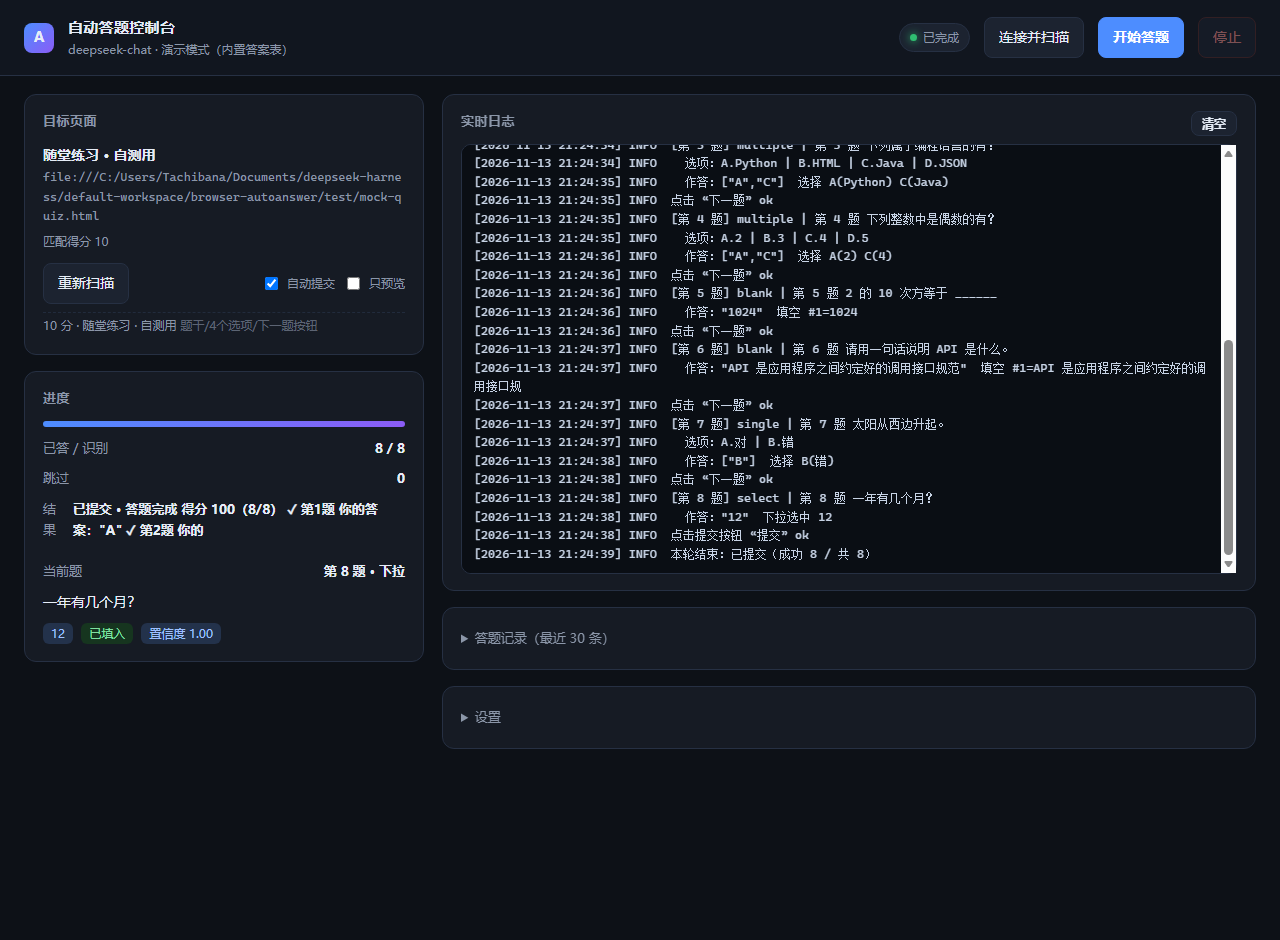
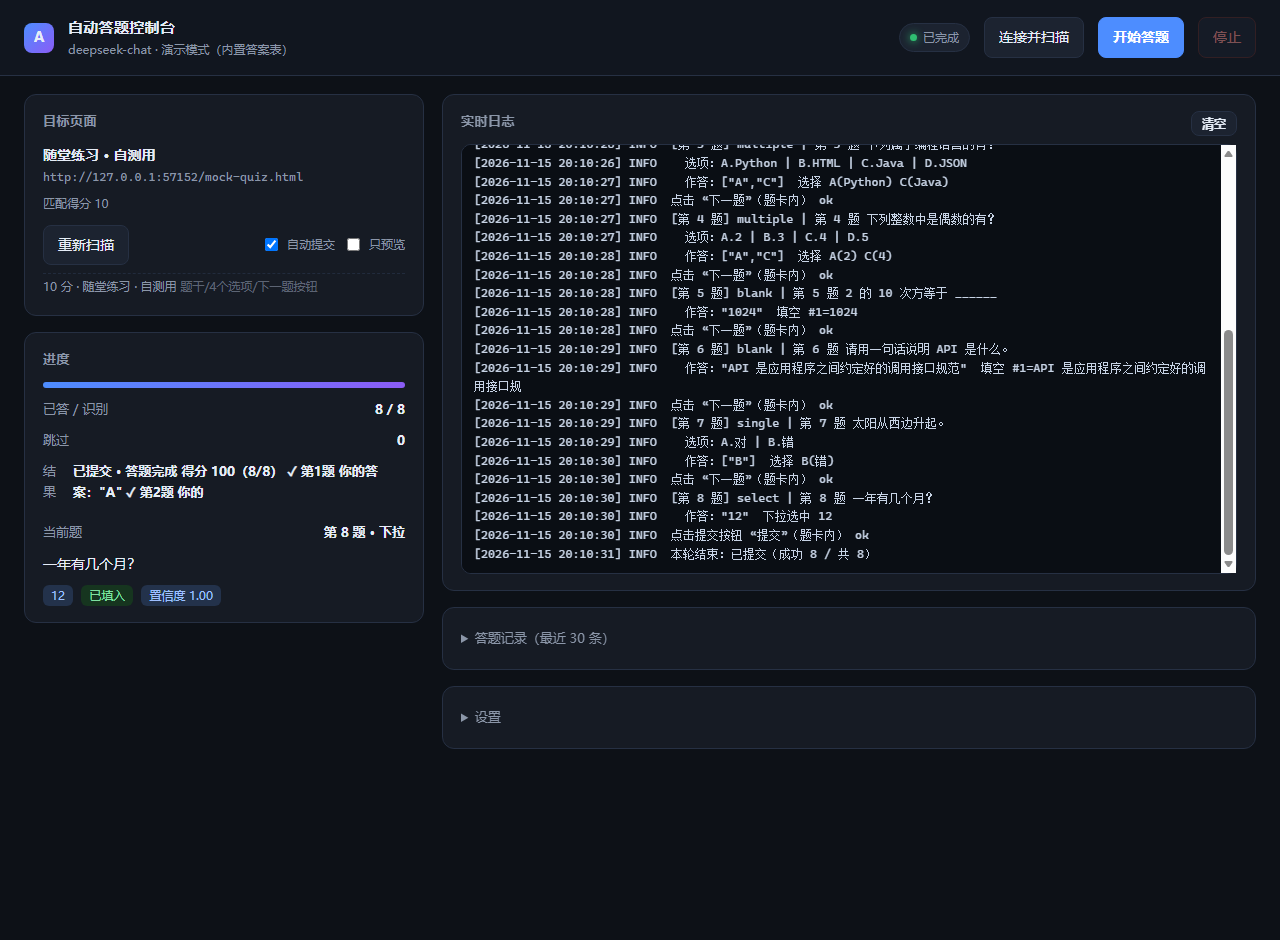
Serve the screenshot fixture over HTTP and drop debug request logging

diff --git a/tools/screenshot-panel.js b/tools/screenshot-panel.js
@@ -1,6 +1,9 @@
 // 生成面板截图（文档/演示用）：起一个演示浏览器 + 面板，跑一轮，然后把界面截下来。
 //   node tools/screenshot-panel.js [输出路径]
+//
+// 题目页通过本地 HTTP 提供（而不是 file://），这样截图里不会出现本机绝对路径。
 import fs from 'node:fs';
+import http from 'node:http';
 import os from 'node:os';
 import path from 'node:path';
 import { spawn } from 'node:child_process';
@@ -13,11 +16,23 @@ const OUT = process.argv[2] || path.join(ROOT, 'runs', 'panel.png');
 const PORT = 3400 + Math.floor(Math.random() * 90);
 const CDP_PORT = 9500 + Math.floor(Math.random() * 90);
 const ENDPOINT = `http://127.0.0.1:${CDP_PORT}`;
-const QUIZ = 'file:///' + path.join(ROOT, 'test', 'mock-quiz.html').replace(/\\/g, '/');
+const TEST_DIR = path.join(ROOT, 'test');
 const sleep = (ms) => new Promise((r) => setTimeout(r, ms));
+
+// 极简静态服务，只用来托管 test/ 下的模拟题目页
+const staticSrv = http.createServer((req, res) => {
+  const name = decodeURIComponent(req.url.split('?')[0]).replace(/^\/+/, '') || 'mock-quiz.html';
+  const file = path.join(TEST_DIR, name);
+  if (!file.startsWith(TEST_DIR) || !fs.existsSync(file)) { res.writeHead(404); res.end('not found'); return; }
+  res.writeHead(200, { 'Content-Type': 'text/html; charset=utf-8' });
+  res.end(fs.readFileSync(file));
+});
+await new Promise((resolve) => staticSrv.listen(0, '127.0.0.1', resolve));
+const QUIZ = `http://127.0.0.1:${staticSrv.address().port}/mock-quiz.html`;
 
 if (!findExecutable({ browser: { channel: 'msedge', executablePath: '' } })) {
   console.error('没找到 Edge/Chrome');
+  staticSrv.close();
   process.exit(1);
 }
 
@@ -71,4 +86,5 @@ try {
   await api('/api/shutdown', {}).catch(() => {});
   try { edge.kill(); } catch (e) {}
   try { server.kill(); } catch (e) {}
+  try { staticSrv.close(); } catch (e) {}
 }

diff --git a/app/server.js b/app/server.js
@@ -65,11 +65,6 @@ function readHistory(limit = 30) {
 const server = http.createServer(async (req, res) => {
   const url = new URL(req.url, 'http://127.0.0.1');
   const route = `${req.method} ${url.pathname}`;
-  // 页面类请求记一条，便于排查“窗口打开了但没内容”
-  if (route === 'GET /') {
-    info(`HTTP GET / ua=${(req.headers['user-agent'] || '').slice(0, 48)}`);
-    res.on('finish', () => info(`HTTP GET / done ${res.statusCode}`));
-  }
 
   try {
     if (route === 'GET /' || route === 'GET /index.html') {
